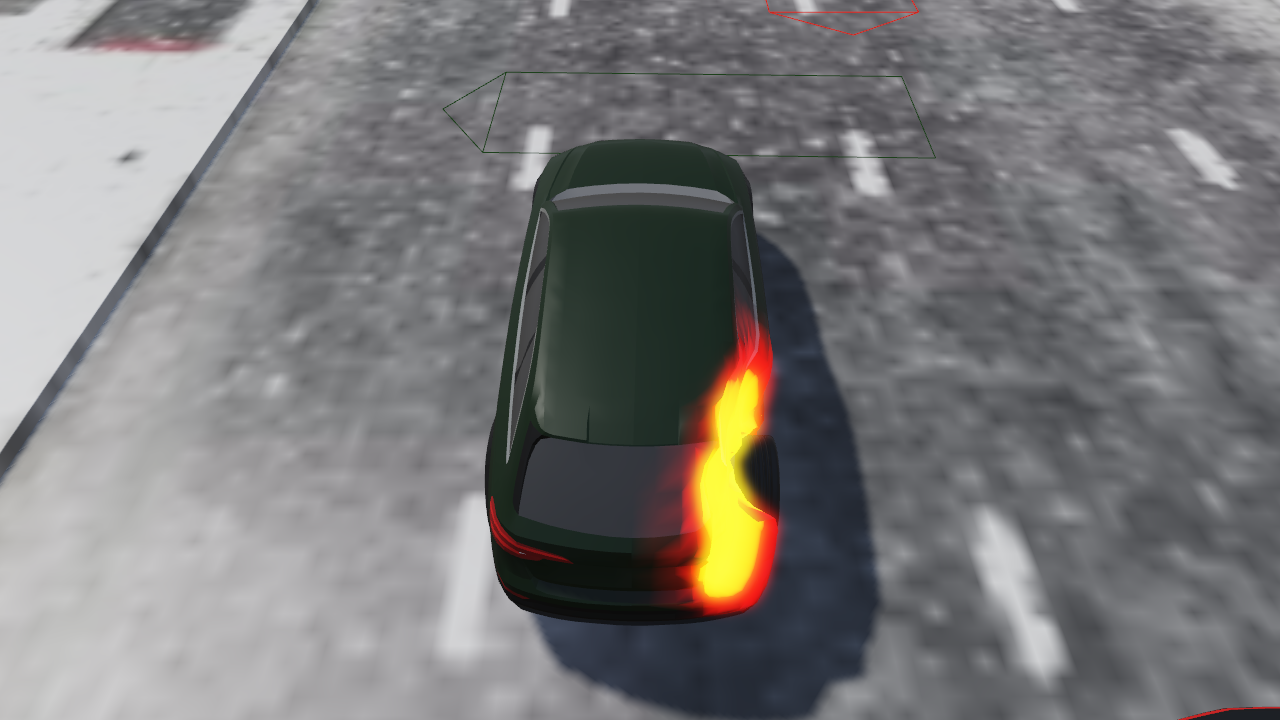
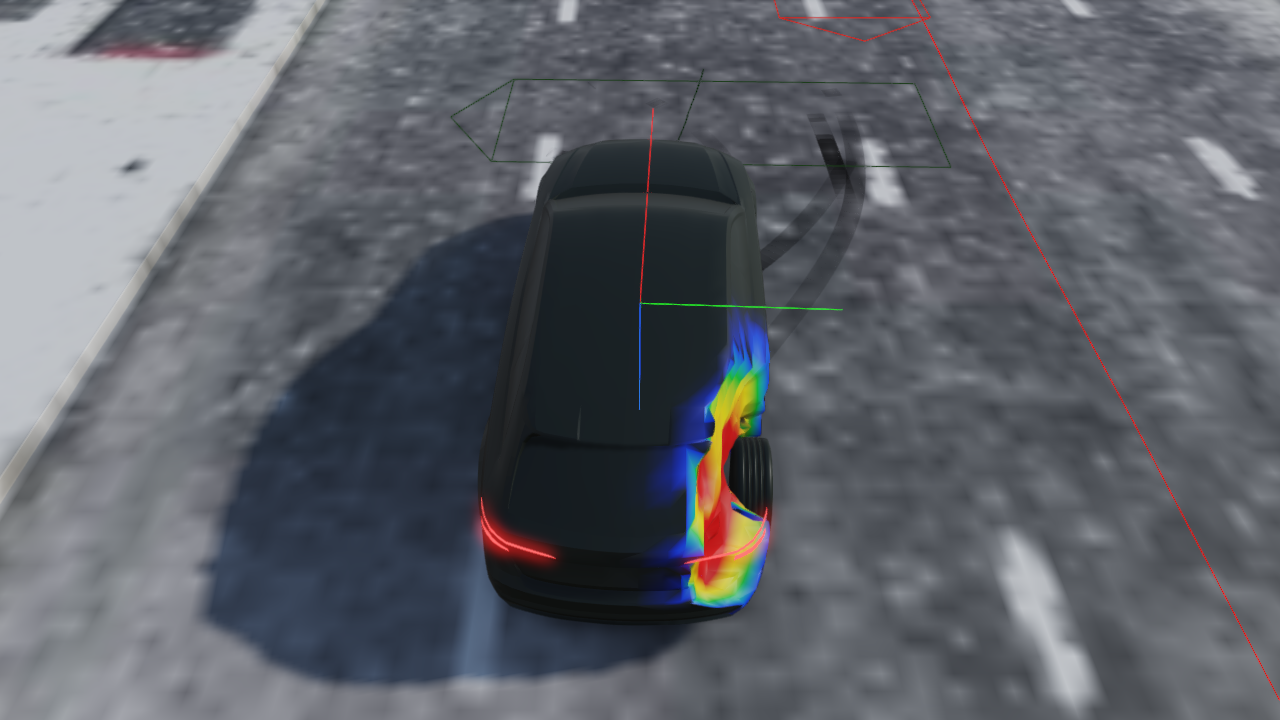
Studio manuals from hve-next 9dcc9b47: the crush heat map in one step, with gradient presets
Claude-Session: https://claude.ai/code/session_01HAXqYNiduHk3iVEfYa8J6W

diff --git a/hve-studio-next/docs/manuals/new-features/01-materials-and-shader-editor.md b/hve-studio-next/docs/manuals/new-features/01-materials-and-shader-editor.md
@@ -223,17 +223,36 @@ Nothing flows the other way: the node reads the run and writes nothing to it.
 #### A crush heat map
 
 1. Solve an event with crush (for example a DyMESH collision).
-2. Select the struck vehicle and its **(whole)** slot (or its BODY slot), and
-   press **+ New** if the slot is empty. The new material is *Object Color →
-   Principled BSDF → Material Output*.
-3. Add an **HVE Simulation** node, a **Map Range** node and a **Color Ramp**
-   node. Link **Crush → Map Range Value**, **Map Range Result → Color Ramp
-   Fac**, and **Color Ramp Color → Principled BSDF Emission Color**.
-4. Set Map Range's **From Max** to the depth that should read fully hot (0.25 m
-   in the figure), choose a three-stop ramp (black, red, yellow), and set the
-   Principled BSDF's **Emission Strength** (4 in the figure).
-5. Scrub the playback bar. The heat follows the crush as it forms; at t = 0,
-   before the impact, the body draws exactly as it would with Crush unlinked.
+2. Select the struck vehicle and its body slot (or its **(whole)** slot), and
+   press **+ New** if the slot is empty.
+3. Press **Crush Heat Map...** beside **X Unlink**, choose a **Gradient**, set
+   **Full color at** (the crush depth that reaches the gradient's last color;
+   0.25 m by default), and press **Apply**.
+4. Scrub the playback bar. The heat follows the crush as it forms; at t = 0,
+   before the impact, the body draws exactly as it did before.
+
+The body keeps its own paint where nothing was crushed, and crushed metal is
+colored by its depth. The color is the surface's own (Base Color), so it is lit
+and shaded like the rest of the body rather than glowing. The gradients:
+
+- **Engineering (blue-green-yellow-red)**, the default: the look of an FEA
+  contour plot, shallow crush blue and the deepest red.
+- **Viridis (purple-teal-yellow)**: even steps of brightness, so it still reads
+  in grayscale and for most color-blind readers.
+- **Yellow-red**, **Grayscale (light-dark)**, and **Heat (black-red-yellow)**
+  (the earlier, fire-like look).
+
+**Crush Heat Map...** again on the same material changes that heat map's
+gradient and depth instead of adding a second one.
+
+Everything it adds is ordinary nodes, so all of it can be changed in the graph:
+*HVE Simulation* **Crush** → **Map Range** (From Max = the full-color depth) →
+**Color Ramp** → **Mix Color** B, with a second Map Range (Crush from 0 to
+5 mm) as the Mix factor and the paint on A, into the Principled BSDF's **Base
+Color**. Each **Color Ramp** has a **Preset...** list with the same gradients,
+and each of its stops has its own position and color picker. For a glowing map
+instead, link the Color Ramp to the Principled BSDF's **Emission Color** and
+raise **Emission Strength**.
 
 ![A crush heat map on the struck vehicle of a solved T-bone](images/hvn-crush-heatmap.png)
 

diff --git a/hve-studio-next/docs/manuals/programs/DamageStudio/01-interface.md b/hve-studio-next/docs/manuals/programs/DamageStudio/01-interface.md
@@ -112,15 +112,17 @@ The 3-D viewer displays the current impulse center and PDOF vector, as well as a
     **Crush heat map.** In the **Shader Editor** (View › Shader Editor), the
     *HVE Simulation* node has a **Crush** output: how far the run's crush moved
     each vertex of the vehicle body from the undamaged mesh, in meters (0 where
-    it did not move). Feed it through a Map Range and a Color Ramp, or straight
-    into an Emission strength, to color a vehicle by its crush depth. It follows
+    it did not move). **Crush Heat Map...** beside the material's name builds the
+    whole map in one step, with a choice of gradient (engineering blue-to-red by
+    default); or feed Crush through a Map Range and a Color Ramp yourself, to
+    color a vehicle by its crush depth. It follows
     the playback time. It is a display of the deformed mesh: with **Smooth crush
     deformation** on (Event › Vehicle Mesh), it shows the smoothed shape, not
     only the vertices the solver crushed. It is not sent through the Blender
     live link or baked into glTF.
 
 ![Figure: crush heat map](images/hvn-crush-heatmap.png)
-*Figure: the same vehicle wearing a material whose emission strength is the Crush output; the bright region is where the body was crushed.*
+*Figure: the same vehicle with a crush heat map (Engineering gradient, full color at 0.25 m): its own paint where nothing was crushed, blue to red over the crush.*
 
 ### Damage, User-entered ("User-entered")
 
